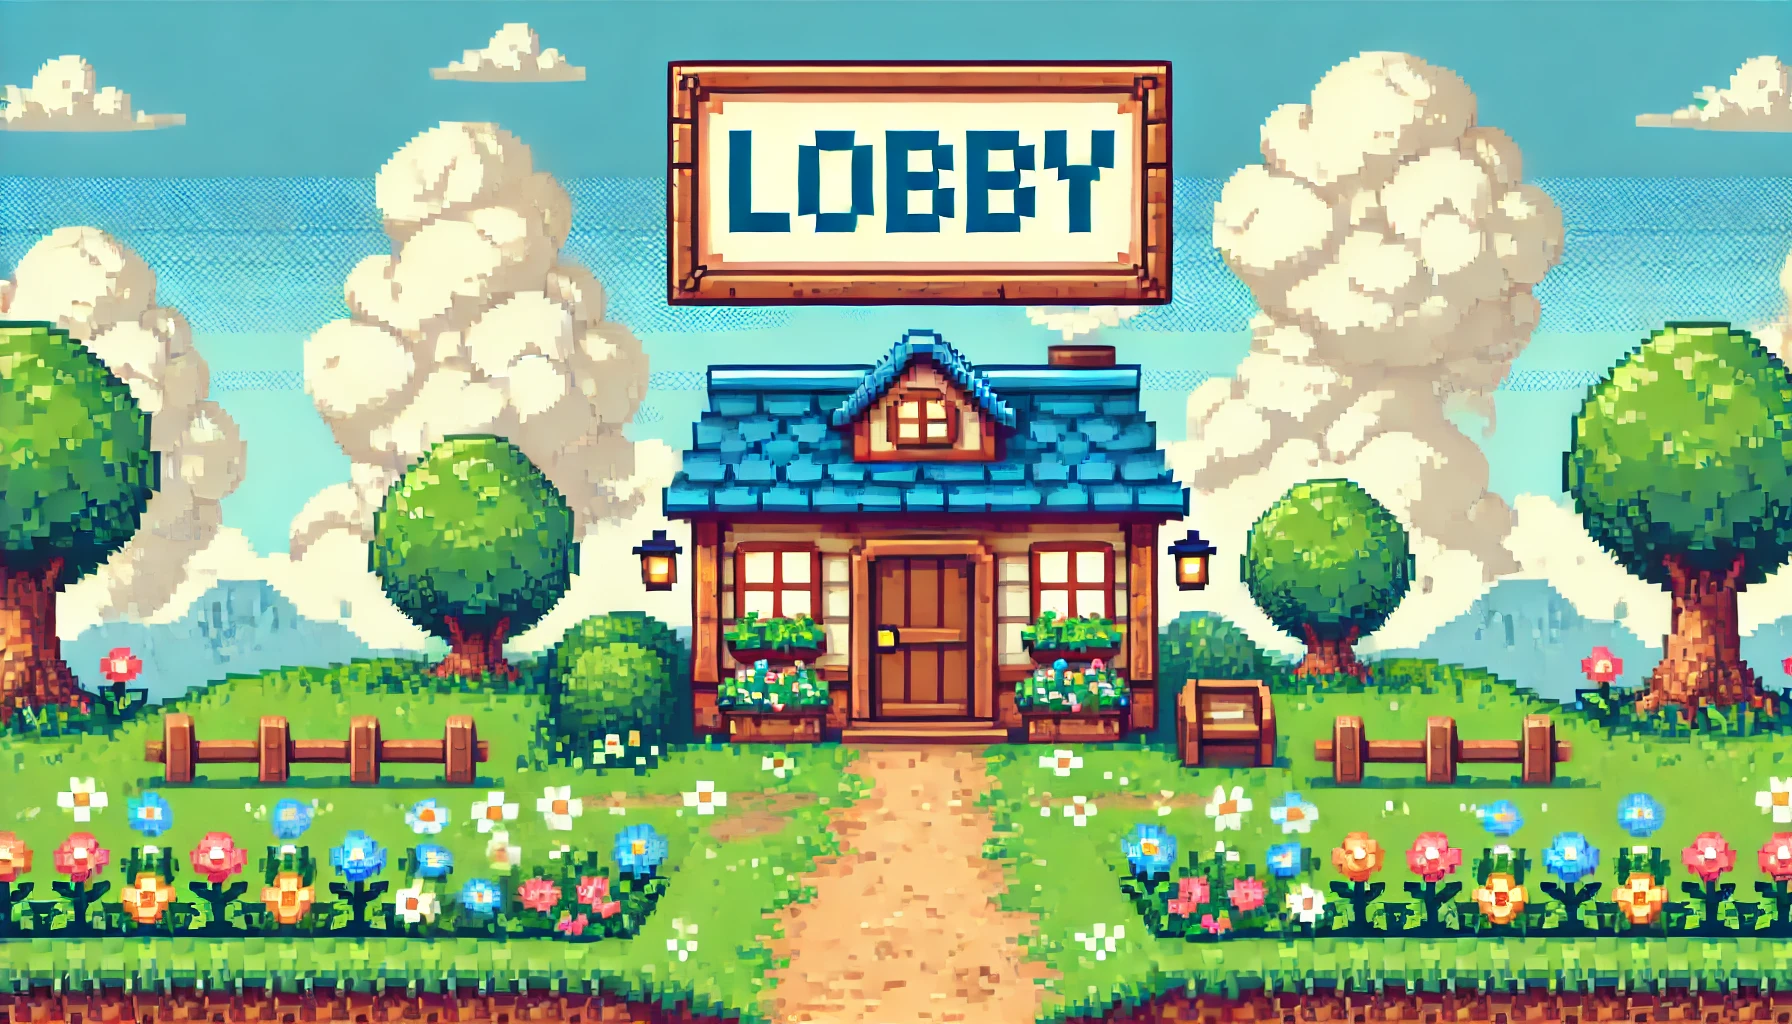
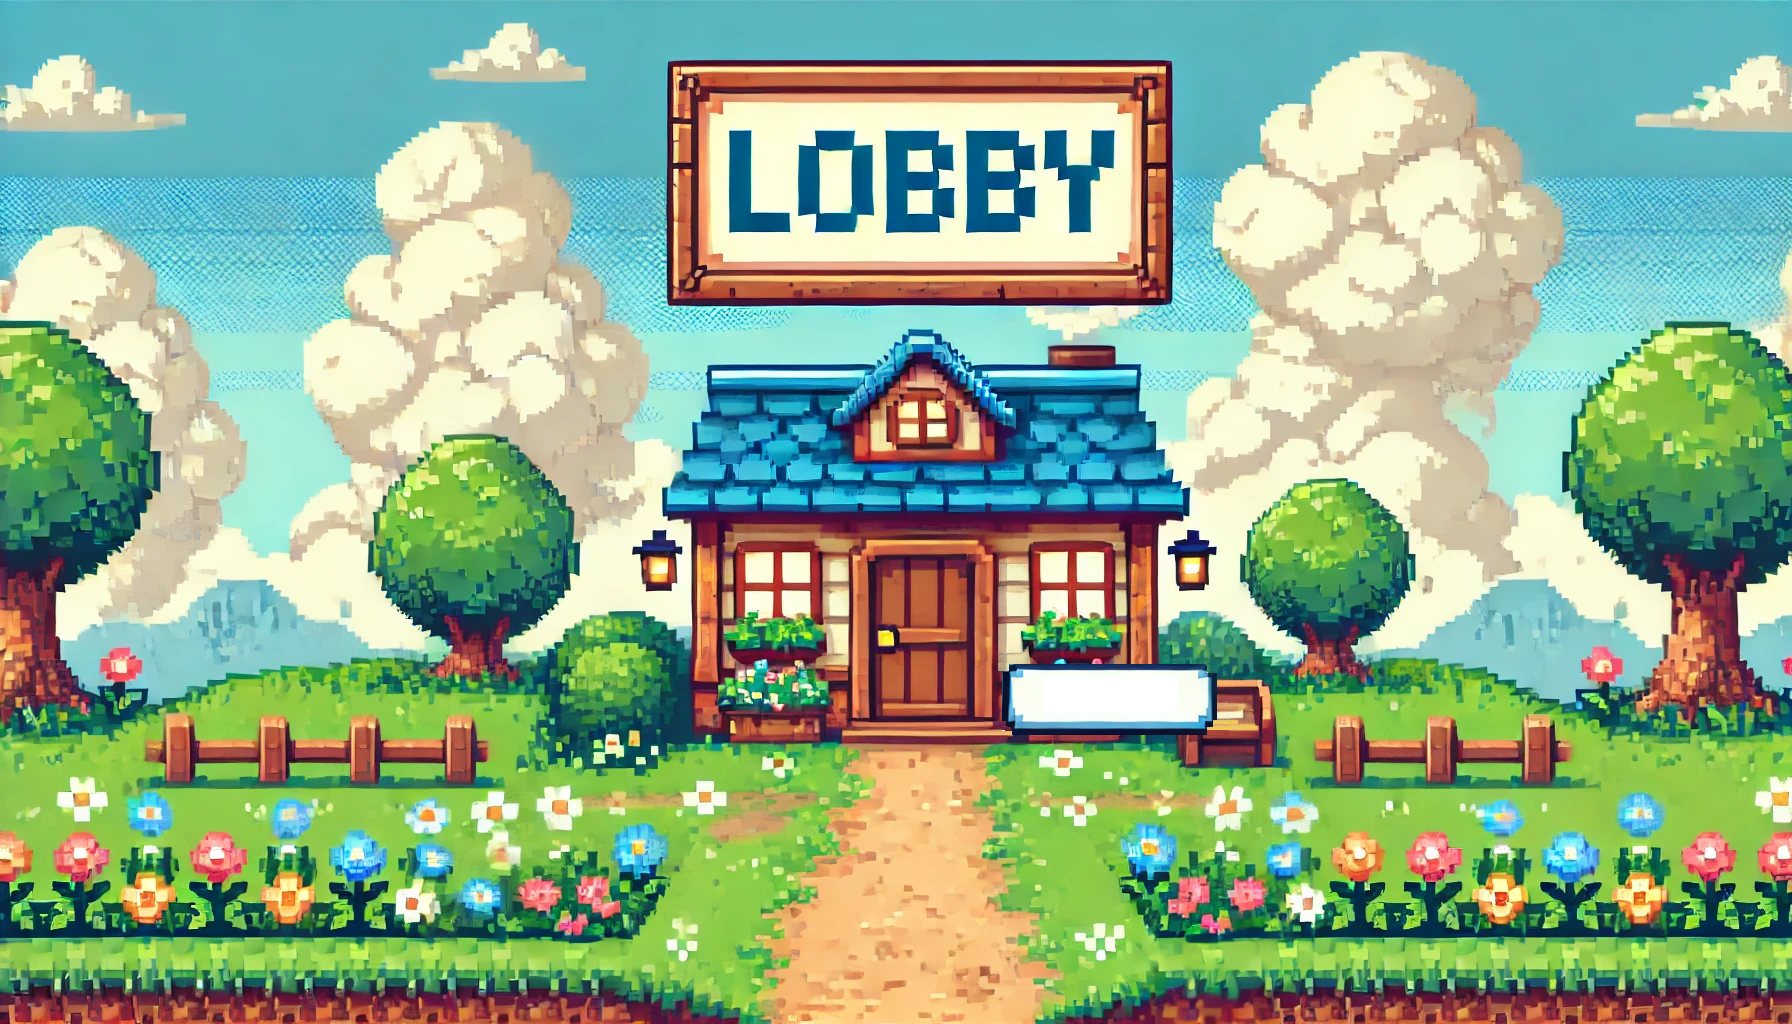
Make game file more focused

Changed region(s): [[0.5312, 0.625, 0.6875, 0.7188]]

diff --git a/client/ui/lobby.py b/client/ui/lobby.py
@@ -9,10 +9,52 @@ class Lobby:
         self.font = pygame.font.Font(
             "client/assets/fonts/PlayMeGames-Demo.otf", 20)
 
+        self.button_font = pygame.font.Font(
+            "client/assets/fonts/PlayMeGames-Demo.otf", 30)
+
         self.image = pygame.image.load(
             "client/assets/lobby_bg.png").convert_alpha()
 
-    def draw(self, window):
+        self.text_box_width = 620
+        self.text_box_height = 305
+        self.text_box_position = (50, 300)
+        self.text_padding = 20
+
+        self.buttons = [
+            {"text": "Back", "position": (
+                564, 649), "selected": True},
+        ]
+
+    def draw(self, window, player_names):
         image_rect = pygame.Rect(
             550, 50, DISPLAY["WIDTH"], DISPLAY["HEIGHT"])
         window.blit(self.image, (0, 0), image_rect)
+
+        box_rect = pygame.Rect(
+            self.text_box_position[0],
+            self.text_box_position[1],
+            self.text_box_width,
+            self.text_box_height
+        )
+        pygame.draw.rect(window, (255, 255, 255), box_rect, border_radius=10)
+        pygame.draw.rect(window, (0, 0, 0), box_rect, 2,
+                         border_radius=10)
+
+        self.draw_player_names(window, player_names)
+        self.draw_buttons(window)
+
+    def draw_player_names(self, window, player_names):
+        x, y = self.text_box_position[0] + \
+            self.text_padding, self.text_box_position[1] + self.text_padding
+
+        for name in player_names:
+            name_surface = self.font.render(name, True, (0, 0, 0))
+            window.blit(name_surface, (x, y))
+            y += name_surface.get_height() + 5
+
+    def draw_buttons(self, window):
+        for button in self.buttons:
+            text_surface = self.button_font.render(
+                button["text"], True, (65, 209, 84) if button["selected"] else (0, 0, 0))
+            text_rect = text_surface.get_rect(center=button["position"])
+            window.blit(text_surface, text_rect)

diff --git a/client/core/game.py b/client/core/game.py
@@ -3,7 +3,6 @@ import pygame
 import asyncio
 from config import DISPLAY
 from network import GameClient
-from ui import Menu
 from .game_state import GameState
 
 
@@ -19,31 +18,15 @@ class Game:
         self.game_state = GameState()
 
     async def run(self):
-        # connect_task = asyncio.create_task(self.client.connect())
-
         while self.game_state.running:
-            self.handle_events()
-            # await self.client.process_server_messages()
-            self.render()
-            self.clock.tick(DISPLAY["FPS"])
-            await asyncio.sleep(0)
+            self.game_state.run()
+            self.game_state.render(self.window)
 
-        # await connect_task
+            self.clock.tick(DISPLAY["FPS"])
+
         await self.shutdown()
 
-    def handle_events(self):
-        for event in pygame.event.get():
-            if event.type == pygame.QUIT:
-                self.game_state.running = False
-            else:
-                self.game_state.handle_input(event)
-
-    def render(self):
-        self.window.fill((0, 0, 0))
-        self.game_state.render(self.window)
-        pygame.display.flip()
-
     async def shutdown(self):
-        # await self.client.disconnect()
+        await self.game_state.shutdown()
         pygame.quit()
         sys.exit(0)

diff --git a/client/core/game_state.py b/client/core/game_state.py
@@ -1,10 +1,13 @@
+import pygame
 from .states import MenuState
+from network import GameClient
 
 
 class GameState:
     def __init__(self):
         self.state = MenuState(self)
         self.running = True
+        self.client = GameClient()
 
     def set_state(self, new_state):
         self.state = new_state
@@ -12,5 +15,25 @@ class GameState:
     def handle_input(self, event):
         self.state.handle_input(event)
 
+    def handle_events(self):
+        for event in pygame.event.get():
+            if event.type == pygame.QUIT:
+                self.running = False
+            else:
+                self.handle_input(event)
+
+    def run(self):
+        self.handle_events()
+
     def render(self, window):
+        window.fill((0, 0, 0))
+        self.player_list = self.client.player_list
         self.state.render(window)
+        pygame.display.flip()
+
+    async def shutdown(self):
+        await self.client.disconnect()
+
+
+# await self.client.process_server_messages()
+# connect_task = asyncio.create_task(self.client.connect())

diff --git a/client/network/game_client.py b/client/network/game_client.py
@@ -21,7 +21,7 @@ class GameClient:
         try:
             self.client_socket.connect((self.host, self.port))
             self.client_socket.setblocking(False)
-            # print("Connected to game server.")
+            print("Connected to game server.")
             asyncio.create_task(self.receive_messages())
         except Exception as e:
             print(f"Connection error: {e}")
@@ -42,7 +42,7 @@ class GameClient:
             except BlockingIOError:
                 await asyncio.sleep(0.1)
             except Exception as e:
-                # print(f"Error receiving message: {e}")
+                print(f"Error receiving message: {e}")
                 break
 
     async def get_next_message(self):
@@ -64,4 +64,4 @@ class GameClient:
 
     async def disconnect(self):
         self.client_socket.close()
-        # print("Disconnected from game server.")
+        print("Disconnected from game server.")

diff --git a/client/core/states/lobby.py b/client/core/states/lobby.py
@@ -10,7 +10,10 @@ class LobbyState(StateBase):
         self.ready = False
 
     def handle_input(self, event):
-        pass
+        if event.type == pygame.KEYDOWN:
+            if event.key == pygame.K_RETURN:
+                from .menu import MenuState
+                self.game_state.set_state(MenuState(self.game_state))
 
     def render(self, window):
-        self.menu.draw(window)
+        self.menu.draw(window, self.game_state.player_list)
